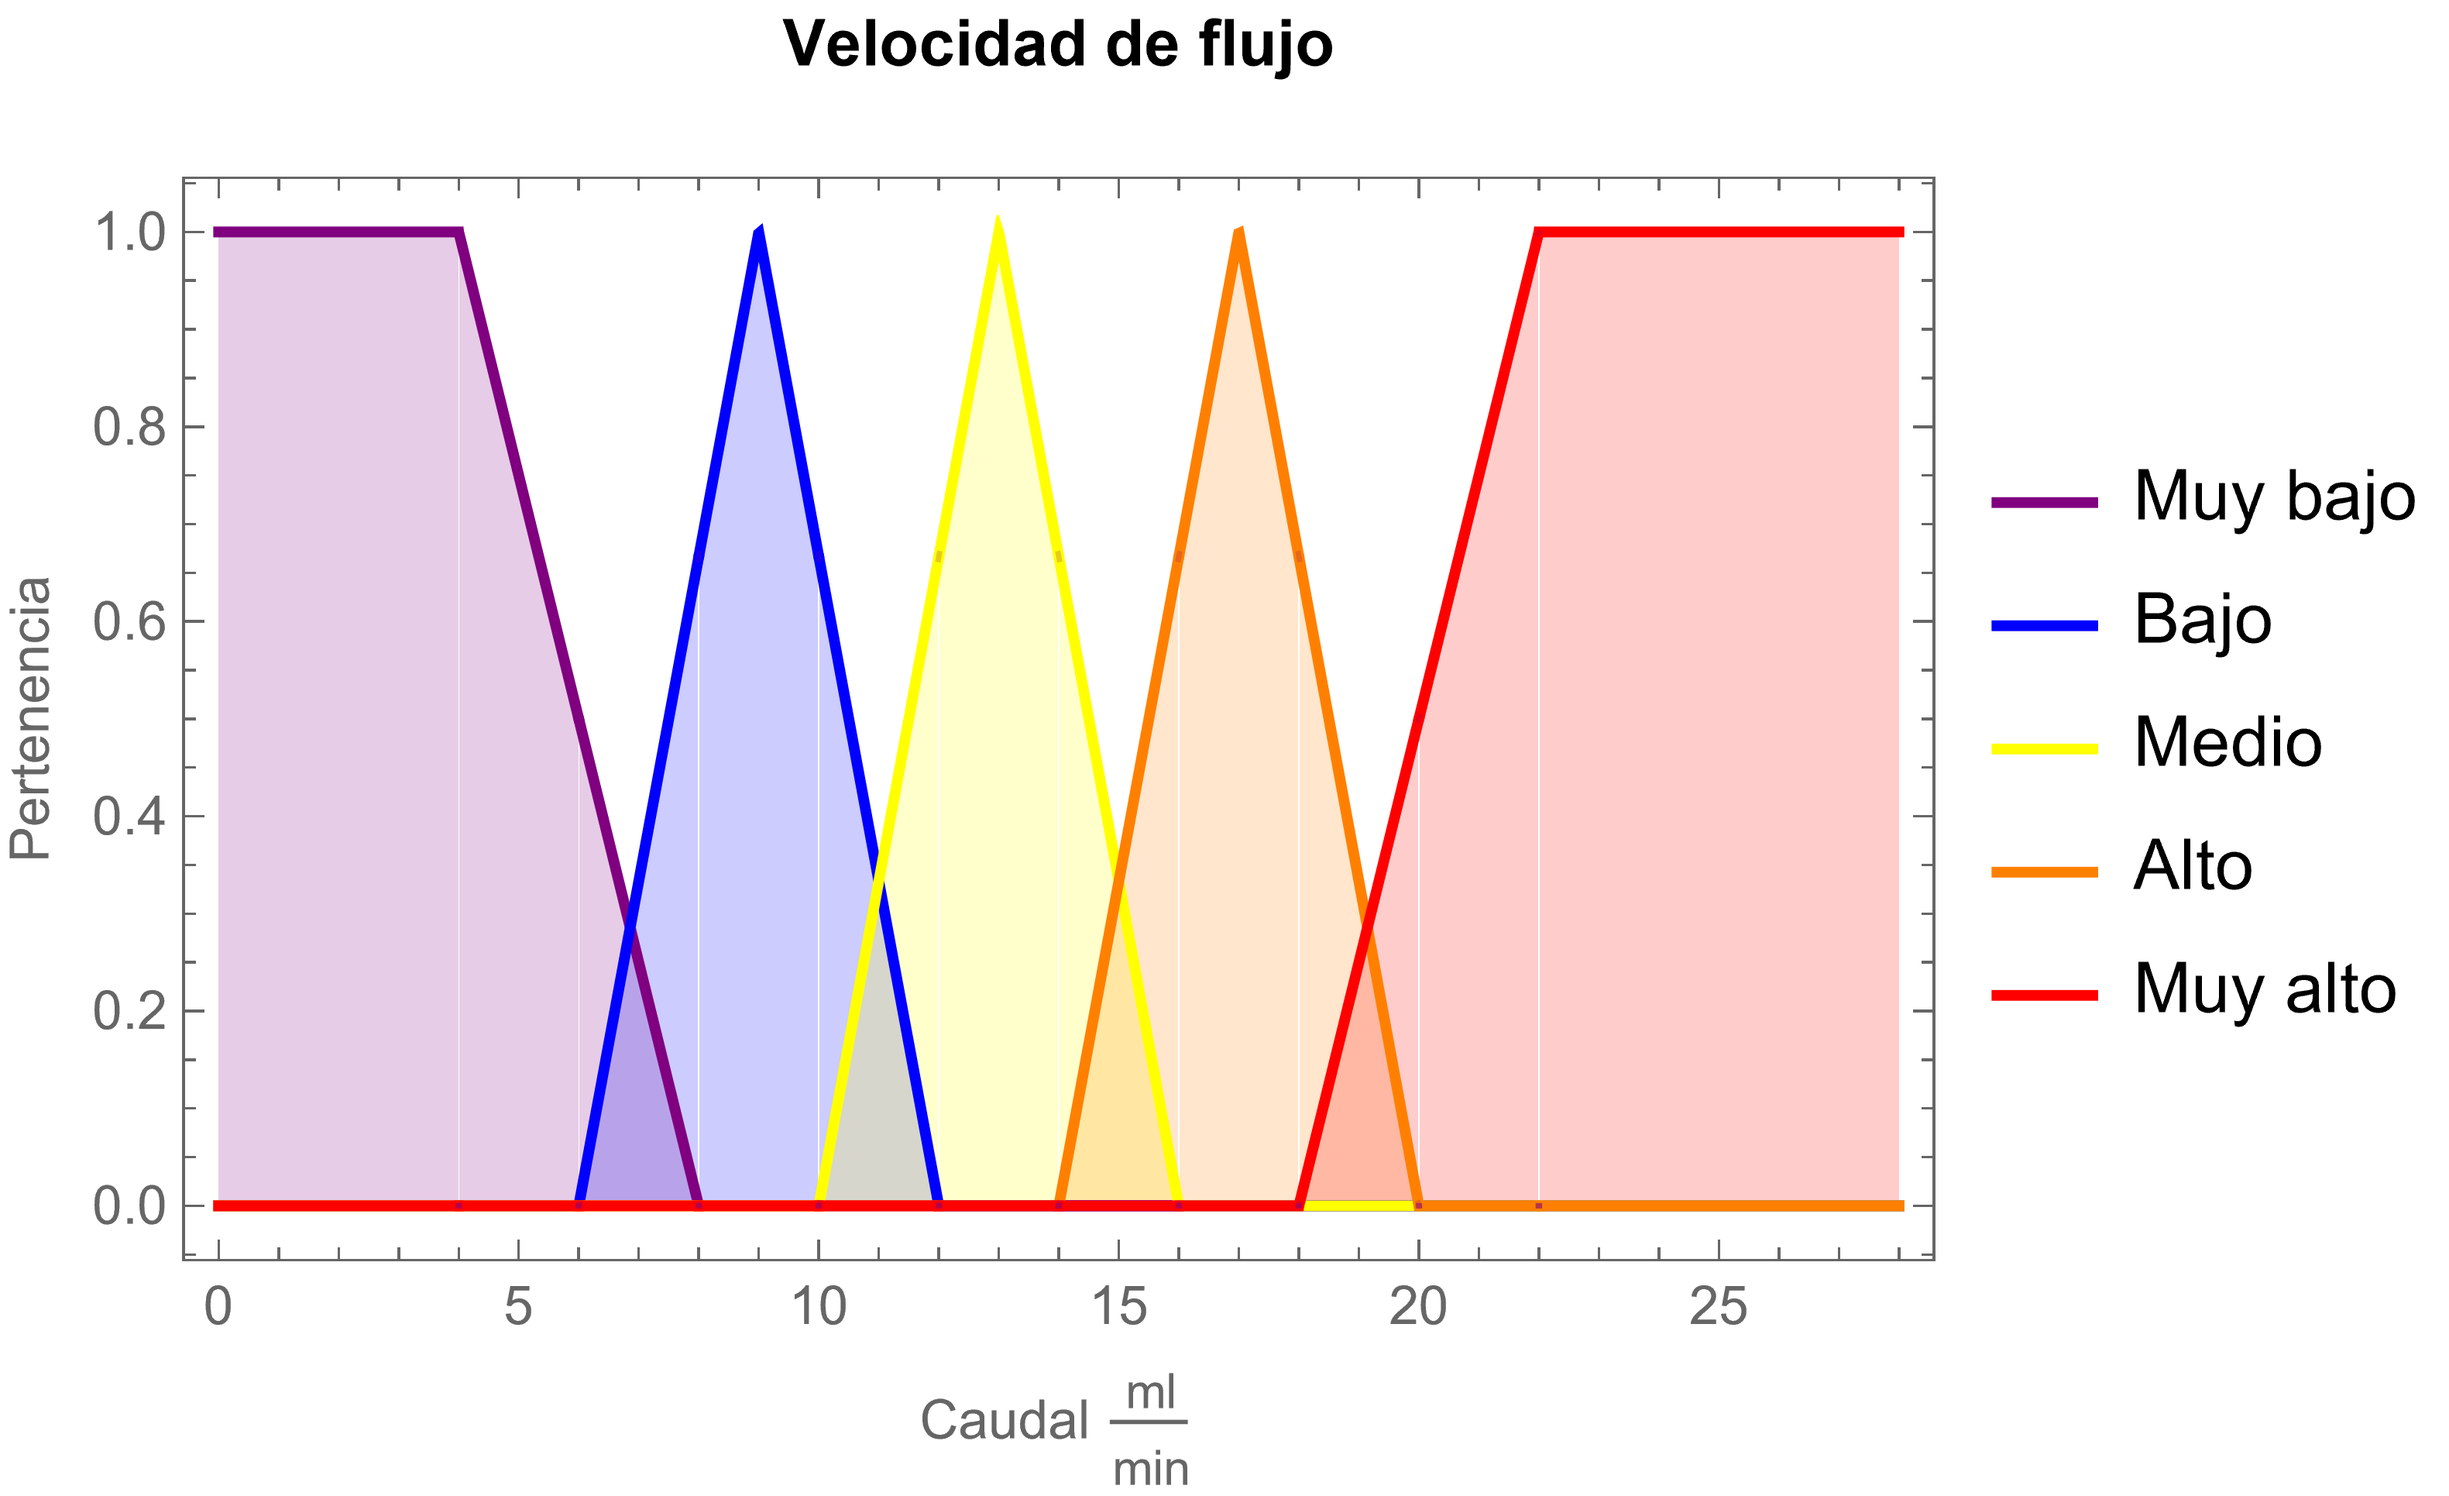
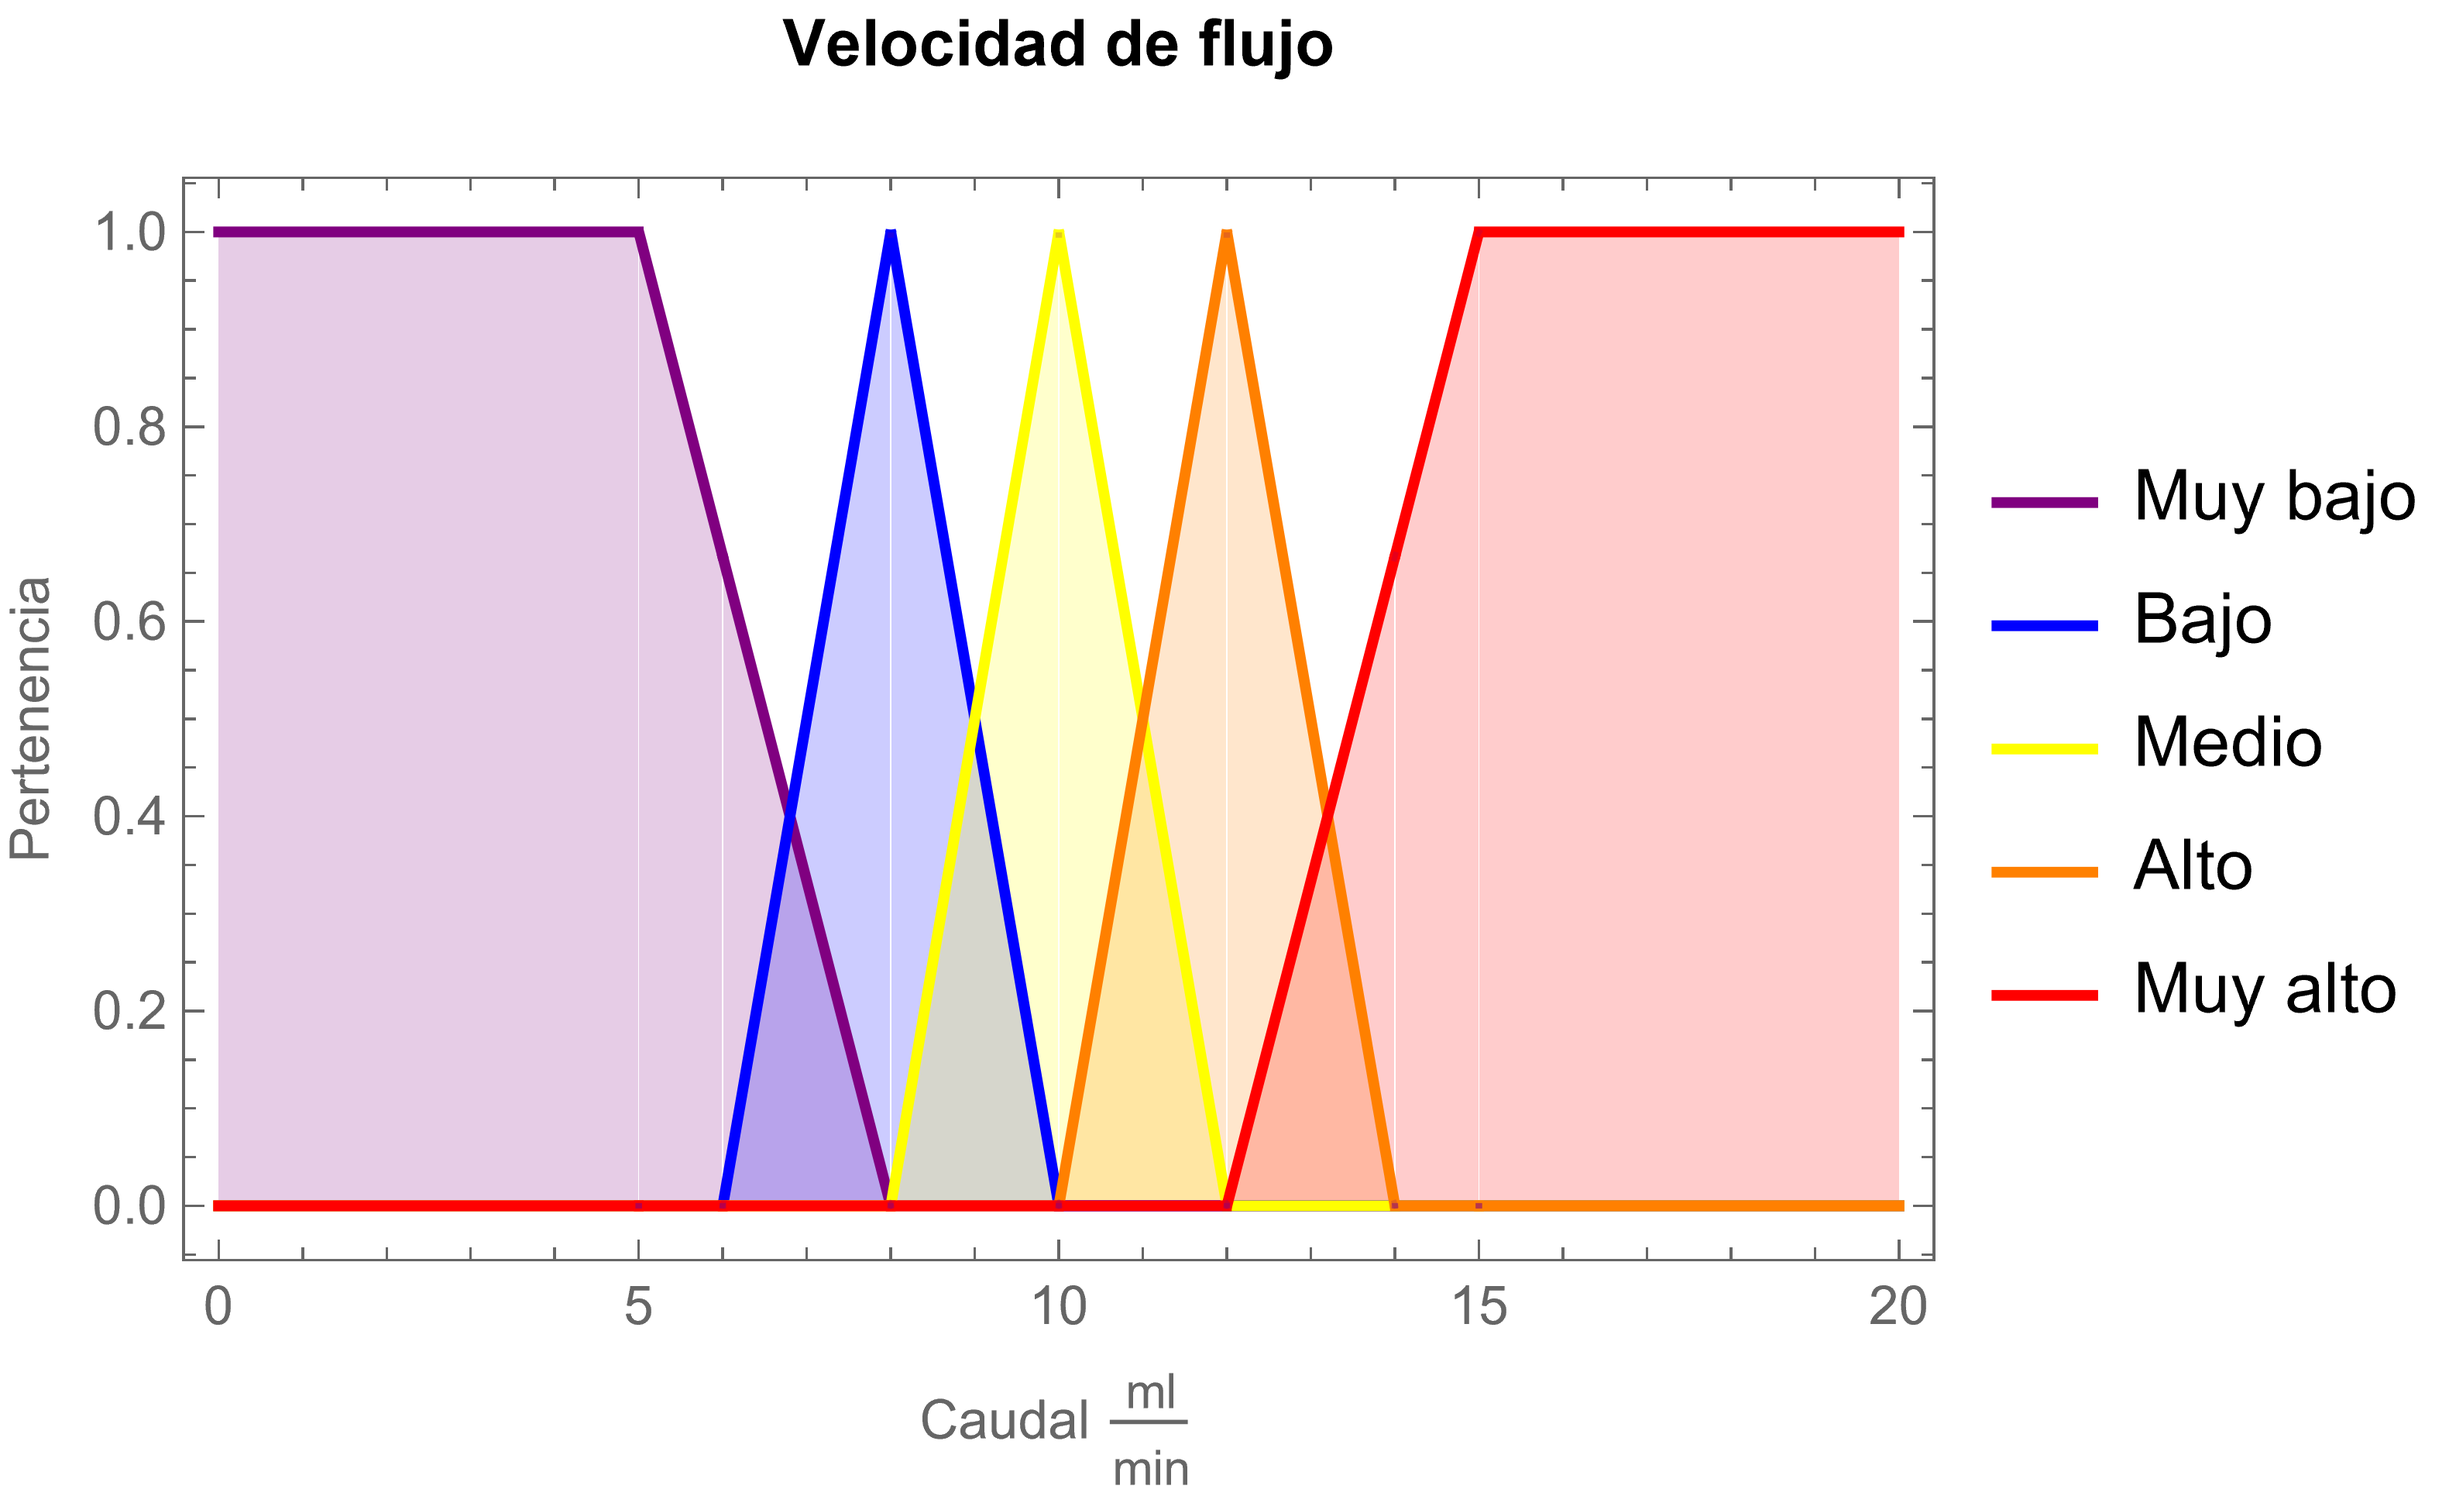
Avances

diff --git a/Content/Chapter-7/Resultados.tex b/Content/Chapter-7/Resultados.tex
@@ -11,7 +11,11 @@
 	
 		\begin{figure}
 			\centering
-			\includegraphics[width=\linewidth, height=12cm, keepaspectratio]{Resultados/Sistema/VistaGeneral.png}
+			\includegraphics[
+				width=\linewidth,
+				height=12cm,
+				keepaspectratio
+			]{Resultados/Sistema/VistaGeneral.png}
 			\caption{Vista general del proceso de desalinización}
 			\label{fig:VistaGeneral}
 		\end{figure}
@@ -150,13 +154,13 @@
 			
 				\textbf{Transferencia de calor}\par
 			
-				Con el fin de descartar los materiales a utilizar para intercambiar calor con el recibidor solar, se simuló transferencia de calor con cobre, aluminio y acero inoxidable. De estas simulaciones se concluyó que:
+				Con el fin de observar el desempeño de los materiales a utilizar para intercambiar calor con el recibidor solar, se simuló transferencia de calor con cobre, aluminio y acero inoxidable bajo condiciones favorables (Alta generación de calor). De estas simulaciones se concluyó que:
 				
 				\begin{enumerate}
-					\item El acero inoxidable no proporciona una conducción suficiente de calor, ya que el recibidor empieza a sobrecalentarse mientras que el agua no adquiere la temperatura suficiente. Si se observa detenidamente la~\cref{fig:stainless-steel-heat-transfer} se observa que el agua se calienta cuando está más cerca del recibidor, sin embargo, el calor no llega a toda la tubería, por lo que esta se vuelve a enfriar una vez se aleja del recibidor. Además, el recibidor comienza a sobrecalentarse al no deshacerse del calor, transfiriéndolo a los aislantes térmicos y los alrededores del recibidor. 
+					\item El acero inoxidable no proporciona una conducción suficiente de calor, ya que el recibidor empieza a sobrecalentarse mientras que el agua no adquiere la temperatura suficiente. Si se observa detenidamente la~\cref{fig:stainless-steel-heat-transfer} se observa que el agua se calienta cuando está más cerca del recibidor, sin embargo, el calor no llega a toda la tubería, por lo que esta se vuelve a enfriar una vez que se aleja del recibidor. Además, el recibidor comienza a sobrecalentarse al no deshacerse del calor, transfiriéndolo a los aislantes térmicos y los alrededores del recibidor. 
 					\item El cobre es un buen candidato, ya que la tubería se calienta uniforme y rápidamente, además, el agua adquiere una temperatura poco menor que la del recibidor.
 					
-					\item El aluminio 5052 es un buen candidato, ya que la tubería se calienta rápidamente, sin embargo, incrementa la diferencia entre la temperatura del agua y la del recibidor en contraste con el cobre.
+					\item El aluminio 5052 es un buen candidato, ya que la tubería se calienta rápidamente, sin embargo, incrementa la diferencia entre la temperatura del agua y la del recibidor en contraste con el cobre, sin mencionar que el agua se calienta de manera menos uniforme.
 				\end{enumerate}
 				
 				\begin{figure}[H]
@@ -171,10 +175,8 @@
 						\caption{Corte en el centro del recibidor solar y su transferencia de calor hacia el acero inoxidable 316}
 						\label{fig:50W-StainleesSteel-15C-9mlpm-middle}
 					\end{subfigure}
-				\end{figure}
-			
-				\begin{figure}[H]\ContinuedFloat
-					\begin{subfigure}[t]{\linewidth}
+					\hfill
+					\begin{subfigure}[t]{0.45\linewidth}
 						\centering
 						\includegraphics[
 							width=\linewidth,
@@ -201,9 +203,7 @@
 						\caption{Corte en el centro del recibidor solar y su transferencia de calor hacia el cobre}
 						\label{fig:50WCopper15C9mlpm-middle}
 					\end{subfigure}
-				\end{figure}
-			
-				\begin{figure}[H]\ContinuedFloat
+					\hfill
 					\begin{subfigure}[t]{\linewidth}
 						\centering
 						\includegraphics[
@@ -231,9 +231,7 @@
 						\caption{Corte en el centro del recibidor solar y su transferencia de calor hacia el aluminio}
 						\label{fig:50WAluminum15C9mlpm-middle}
 					\end{subfigure}
-				\end{figure}
-			
-				\begin{figure}[H]\ContinuedFloat
+					\hfill
 					\begin{subfigure}[t]{\linewidth}
 						\centering
 						\includegraphics[
@@ -249,13 +247,24 @@
 					\label{fig:aluminum-heat-transfer}
 				\end{figure}
 				
-				Debido al tiempo que tomó cada simulación, no se buscó la convergencia, ya que requeriría un lapso mucho mayor al actual, en cambio, se simularon 300 segundos de transferencia de calor los tres materiales bajo las condiciones halladas en el desarrollo experimental. De las gráficas de convergencia, se dedujo que la información proporcionada era suficiente para con estos datos tomar la decisión.
+				Se simularon 300 segundos de transferencia de calor de los tres materiales bajo las condiciones halladas en el desarrollo experimental en lugar de buscar la convergencia, ya que esto requeriría un tiempo mucho mayor y observando el comportamiento de la temperatura del recibidor se concluyó que la información proporcionada fue suficiente para llegar a una conjetura.
 				
-				De lo anterior, cabe mencionar que la temperatura del recibidor en el caso del acero inoxidable seguiría creciendo más y más rápidamente que en el caso del aluminio y del cobre quienes ya estaban cerca del punto de convergencia.
+				De las simulaciones se observó que la temperatura del recibidor solar crecía más rápidamente que la temperatura del agua de salida; en cambio, el cobre y el aluminio tuvieron mejores respuestas.
+				
+				\textit{Producto de estas simulaciones}
+				
+				Las anteriores simulaciones ayudaron a comprender un poco más la respuesta del sistema y con base en ello se tomaron las siguientes decisiones.
+				
+				\begin{itemize}
+					\item Se descartó el uso de acero inoxidable como material para la tubería
+					\item Se aceptó el uso de aluminio 5052 como material para la tubería pero se identificaron ciertas limitaciones en contraste con el cobre como menor ductibilidad, menor transferencia de calor pero mayor resistencia a la corrosión.
+					\item Los criterios de manufacturabilidad cambiaron cuando se eligió el cobre como material para la tubería. Como resultado, se propuso un nuevo diseño para mejorar la homogeneidad de la temperatura del agua, como se muestra en la~\cref{fig:HeatTransferBetweenSRandPipe}.
+				\end{itemize}
+				
 				
 				\textbf{Flujo de aire en la cámara de evaporación}\par
 			
-				De acuerdo a lo visto en la~\cref{fig:AirflowInEvaporationChamber} la superficie de evaporación incrementa casi al triple la superficie de evaporación y no disminuye sustancialmente el flujo de aire dentro de la cámara, por lo cual su incorporación queda justificada.
+				La superficie de evaporación vista en la~\cref{fig:EvaporationSurface} incrementa a más del doble la superficie de evaporación y no disminuye sustancialmente el flujo de aire dentro de la cámara como se observa en la~\cref{fig:AirflowInEvaporationChamber}, por lo cual se justifica parcialmente su incorporación al desalinizador dado que falta evaluar su influencia en la acumulación de sales dentro de la cámara.
 				
 				\begin{figure}[H]
 					\centering
@@ -284,10 +293,7 @@
 					\label{fig:AirflowInEvaporationChamber}
 				\end{figure}
 		
-			\subsubsection{Comportamiento con la variación de flujo}
-				
-				Las simulaciones presentadas en esta sección se realizaron con el fin de validar las reglas y funciones de membresía del control difuso propuesto.
-				
+			
 				
 				
 	\section{Control del sistema}
@@ -309,7 +315,7 @@
 			
 			\textbf{Termistores}\par
 			
-			Para caracterizar los termistores se refirió a un set de datos que reflejan la respuesta óhmica al aplicarse cierta temperatura; el código visto en~\cref{ch:steinhart-code}	nos permite hallar los coeficientes de Steinhart-Hart para este modelo.
+			Para caracterizar los termistores se refirió a un set de datos que reflejan la respuesta óhmica al aplicarse cierta temperatura; el código visto en~\cref{ch:steinhart-code} nos permite hallar los coeficientes de Steinhart-Hart para este modelo.
 			
 			Se halló que:
 			
@@ -334,6 +340,24 @@
 				\floatfoot{Imagen adaptada de \cite{atlas_scientific_llc_ezo-pmp_2020}}
 				\label{fig:Calibración-bomba}
 			\end{figure}
+		
+		\subsection{Comportamiento con la variación de flujo}
+				
+				En esta sección se presenta evidencia de las simulaciones realizadas para definir el universo de discurso de las variables lingüísticas de las variables difusas. Como se observa en la~\cref{fig:FuzzyUniverse} se estudiaron las respuestas de variar la temperatura del agua entrante, el caudal y el calor capturado por el concentrador solar.
+								
+				\begin{figure}[H]
+					\centering
+					\includegraphics[
+						width=\linewidth,
+						height = 60mm,
+						keepaspectratio
+					]{Resultados/Simulaciones/FuzzyUniverse.png}
+					\caption{Captura de pantalla de Autodesk CFD mostrando una vista general de las simulaciones realizadas}
+					\label{fig:FuzzyUniverse}
+				\end{figure}
+								
+				De lo anterior, se descubrió que el caudal tiene el mayor impacto en la respuesta del sistema. Por ello, se propuso utilizar una función de membresía de tipo triangular que representa con mayor precisión los cambios bruscos del sistema para representar con mayor precisión los efectos del caudal en la respuesta del sistema. En cuanto a la temperatura del receptor solar, se encontró que su respuesta era más suave en comparación, pero todavía tenía una respuesta rápida. Por lo tanto, se propuso una función gaussiana debido a que se ajusta más al comportamiento observado.
+				
 		
 		\subsection{Modelo y reglas del control difuso}
 			
@@ -440,11 +464,29 @@
 			\end{itemize}
 			
 			Este conjunto de reglas tienen como objetivo tratar de mantener la temperatura del agua entre \qtyrange{60}{65}{\degreeCelsius} con el fin de evitar daños en los componentes eléctricos.
-			
+	
+	
+	\section{Construcción e integración del sistema}
 		
+		\section{Módulo de reaprovechamiento térmico y bombeo}
+		
+			El intercambiador de calor 
+			
+			\begin{figure}[H]
+				\centering
+				\includegraphics[
+					width=\linewidth,
+					height=65mm,
+					keepaspectratio
+				]{Resultados/Construcción/Intercambiador-de-calor.jpeg}
+				\caption{Intercambiador de calor con aletas verticales}
+				\label{fig:Intercambiador-de-calor.jpeg}
+			\end{figure}
+		
+	
 	\section{Integración al seguidor solar}
 	
-		Para integrar el sistema al seguidor solar, se construyó un marco que soportara la lente, la altura de colocación de la lente se calculó mediante la ley de Snell y trigonometría siguiendo el arreglo mostrado en la~\cref{fig:DiagramaRayos}
+		Para integrar el desalinizador al seguidor solar, se construyó un marco que soportara la lente, la altura de colocación de la lente se calculó mediante la ley de Snell y trigonometría siguiendo el arreglo mostrado en la~\cref{fig:DiagramaRayos}.
 		
 		\begin{figure}[H]
 			\centering
@@ -459,7 +501,7 @@
 		
 		
 		De los cálculos hechos, se obtuvo una altura al punto focal de \qty{362.45}{\mm}. A eso se le sumó la altura del recibidor solar con respecto al módulo de concentración solar dando que la altura mínima del marco es de \qty{442.50}{\mm}
-			
+		
 			
 			
 
